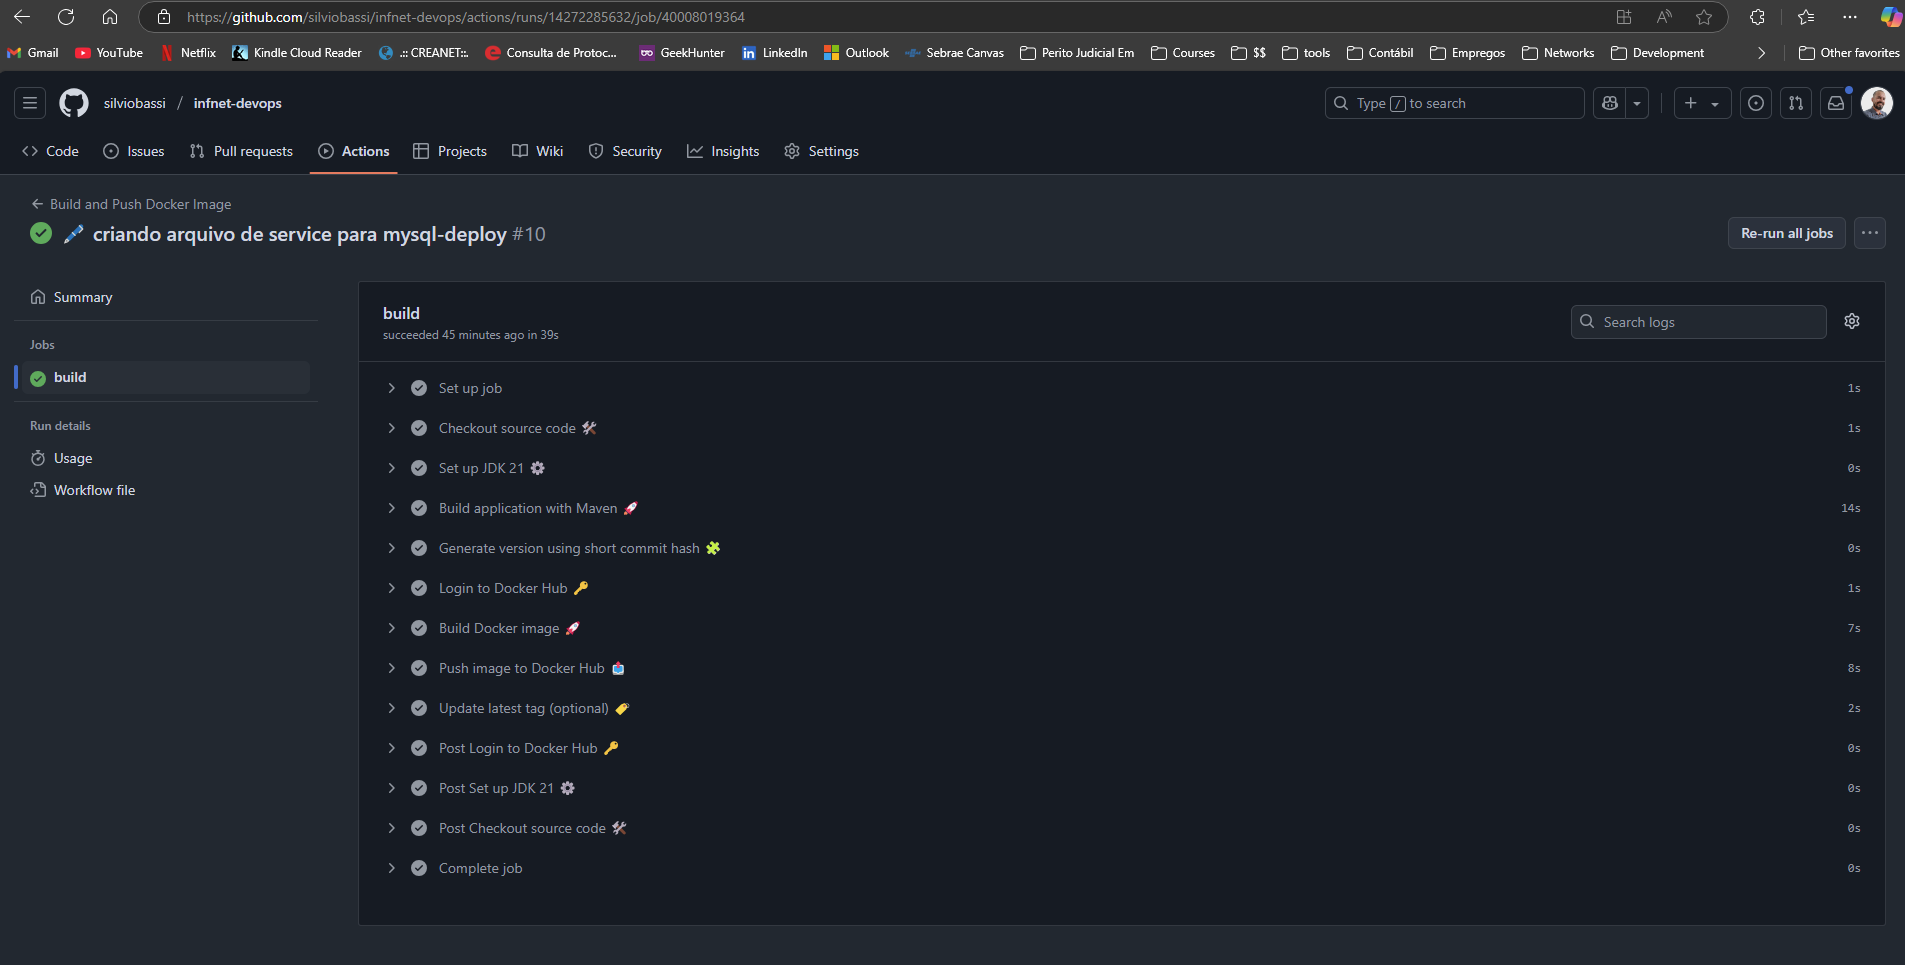
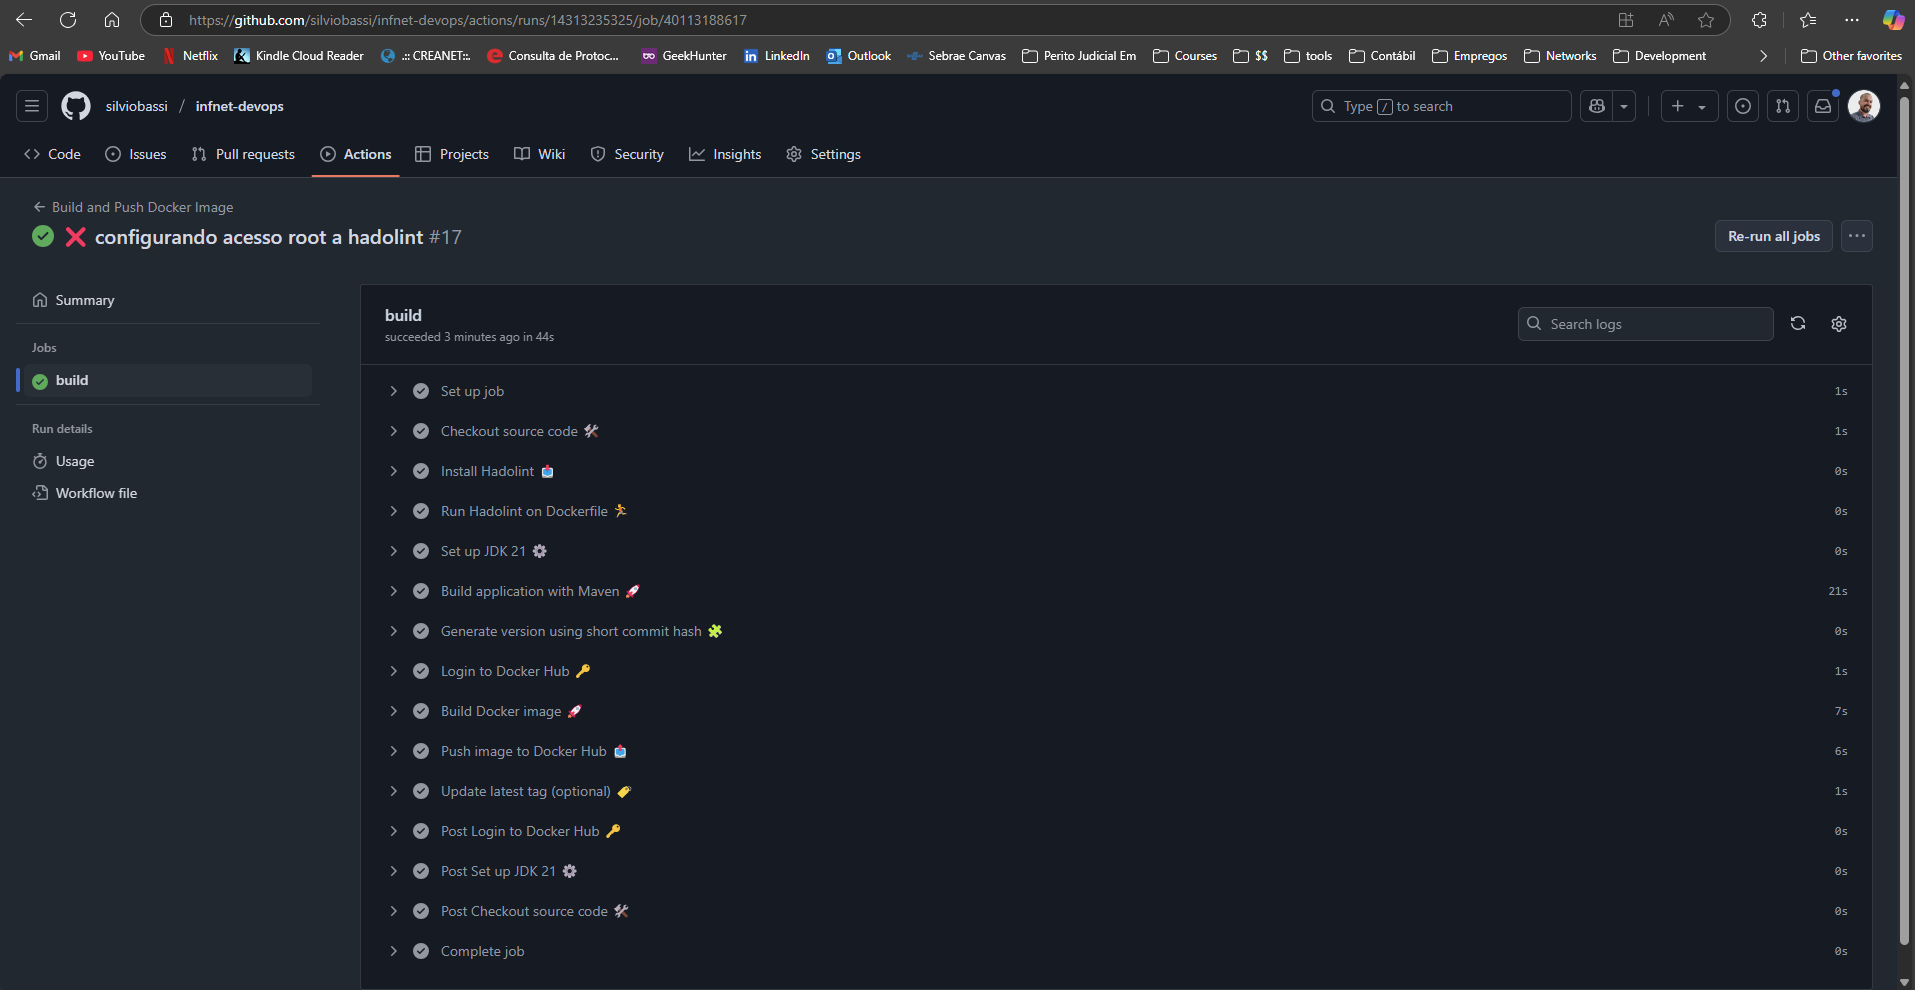
🖋 Editando README.md

diff --git a/README.md b/README.md
@@ -1,4 +1,33 @@
-Infnet DevOps
+**# Projeto do Curso de Arquitetura de Software
 
-![Minha imagem](devops-validate/minikube_creating.png)
+## Disciplina: Integração Contínua, DevOps e Computação em Nuvem [25E1_3]
+
+Acesso ao código fonte em: 
+
+```text 
+https://github.com/silviobassi/infnet-devops
+```
+### Passos para implementação e execução do projeto do projeto:
+
+1. [ ] A imagem foi publicada no Docker Hub por meio de pipeline de CI/CD com GitHub Actions
+2. [ ] Deploy local utilizando cluster Kubernetes - Minikube
+3. [ ] Deployment da aplicação com 4 réplicas
+4. [ ] A aplicação foi exposta para fora do cluster com service do tipo (LoadBalancer)
+5. [ ] Criação de probes (Readiness e Liveness) para garantir a saúde da aplicação
+6. [ ] Deployment de um banco de dados (MySql) com 1 réplica
+7. [ ] O banco de dados ficou acessível com service do tipo (ClusterIP)
+8. [ ] Deploy para monitoramento da aplicação com Grafana e Prometheus
+9. [ ] O Grafana foi exposto para fora do cluster com service do tipo (LoadBalancer)
+10. [ ] O Grafana foi configurado para coletar métricas do Prometheus
+11. [ ] O Prometheus ficou acessível com service do tipo (ClusterIP)
+12. [ ] Um PVC foi utilizado para escrever os dados do Prometheus de forma persistente
+13. [ ] Dashboards do Grafana para exposição de dados sensíveis (memória, cpu, ...)
+14. [ ] Stress Test da aplicação com Fortio
+
+#### Demonstração do projeto
+
+1. Pipeline de CI/CD com GitHub Actions
+
+Código fonte em: `.github/workflows/deploy.yml`
+
 
